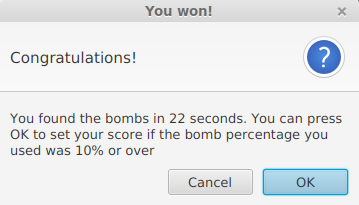
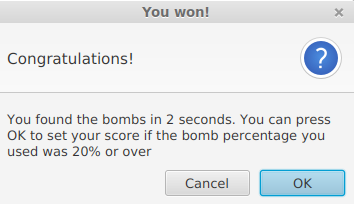
lisaa kuvia

diff --git a/Miinaharava/src/main/java/application/Main.java b/Miinaharava/src/main/java/application/Main.java
@@ -328,14 +328,14 @@ public class Main extends Application {
         win.getDialogPane().setMinHeight(Region.USE_PREF_SIZE);
         win.setTitle("You won!");
         win.setHeaderText("Congratulations!");
-        win.setContentText("You found the bombs in " + seconds + " seconds. You can press OK to set your score if the bomb percentage you used was 10% or over");
+        win.setContentText("You found the bombs in " + seconds + " seconds. You can press OK to set your score if the bomb percentage you used was 20% or over");
         winSeconds = seconds;
         Optional<ButtonType> result = win.showAndWait();
         ButtonType button = result.orElse(ButtonType.YES);
 
         if (button == ButtonType.CANCEL) {
             reload();
-        } else if (bombProcent > 9){
+        } else if (bombProcent > 19) {
             setAlias();
             reload();
         } else {
